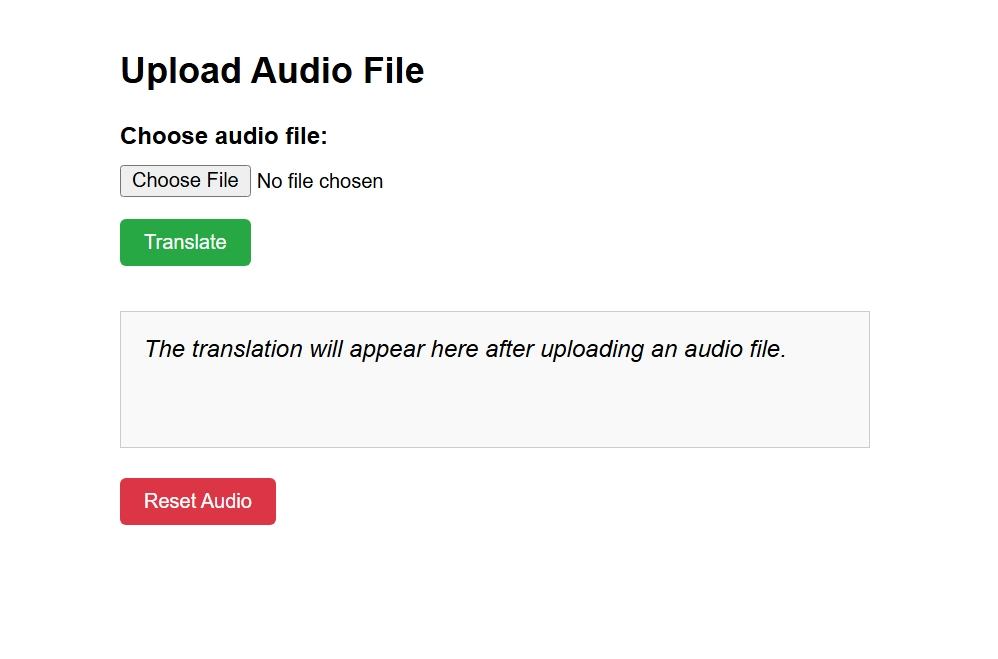
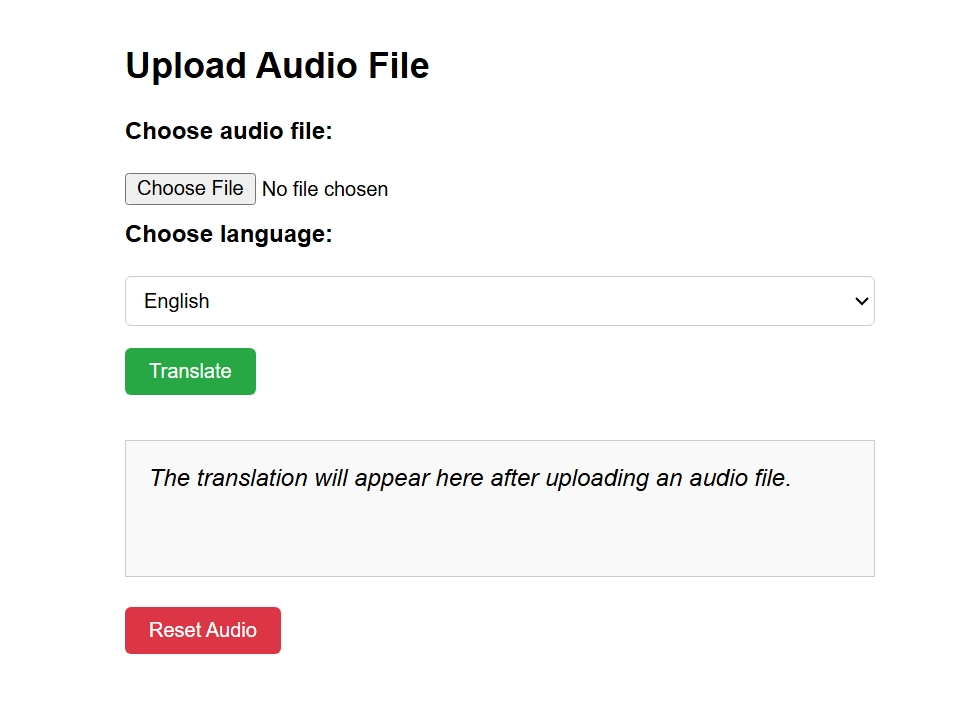
README file updated for language options

Changed region(s): [[0.0934, 0.0607, 0.778, 0.5463], [0.1556, 0.6373, 0.8091, 0.698], [0.0934, 0.698, 0.3112, 0.9105]]

diff --git a/README.md b/README.md
@@ -1,12 +1,13 @@
 # Audio to Text Translator (Flask + OpenAI Whisper)
 
-This project is a web application that allows users to upload audio file and receive accurate transcriptions using OpenAI's Whisper model. Built with Flask, it provides a simple interface for converting speech in audio files to text, supporting a wide range of audio formats.
+This project is a web application that allows users to upload audio file and receive accurate transcriptions using OpenAI's Whisper model. Built with Flask, it provides a simple interface for converting speech in audio files to text, supporting a wide range of audio formats and `multiple languages`.
 
 ---
 
 ## Features
 
 - **Audio Upload:** Upload audio files in various formats (e.g., WAV, MP3, FLAC).
+- **Language Selection:** Choose from 90+ supported languages for transcription.
 - **Automatic Speech Recognition:** Uses OpenAI Whisper for high-quality transcription.
 - **Audio Playback:** Listen to the uploaded audio directly in the browser.
 - **User-Friendly Interface:** Clean, responsive design for ease of use.
@@ -17,6 +18,7 @@ This project is a web application that allows users to upload audio file and rec
 
 ![Demo Screenshot](static/A2T.jpeg)
 ![Demo Screenshot](static/A2Tv1.jpeg)
+![Demo Screenshot](static/A2Tv2.jpeg)
 
 ---
 
@@ -70,8 +72,16 @@ This project is a web application that allows users to upload audio file and rec
 
 2. **Upload an audio file:**
     - Click `Choose audio file` and select your file.
+    - Select your `desired language` from the dropdown menu.
     - Click `Translate` to transcribe the audio.
     - The transcription will appear below, and you can play back the audio.
+
+---
+
+## Language Support
+
+The app supports transcription in 90+ languages. Simply select your preferred language from the dropdown before uploading your audio file.  
+Some supported languages include: English, Hindi, Spanish, French, German, Chinese, Russian, Japanese, Arabic, and many more.
 
 ---
 
@@ -95,8 +105,9 @@ audio-to-text-translator/
 ## How It Works
 
 - The user uploads an audio file via the web interface.
+- The user selects the language for transcription.
 - The file is saved to the `static/uploads` directory.
-- The Whisper model (`turbo` by default) processes the audio and generates a transcription.
+- The Whisper model (`turbo` by default) processes the audio and generates a transcription in the selected language.
 - The transcription is displayed on the page, and the audio can be played back.
 
 ---
